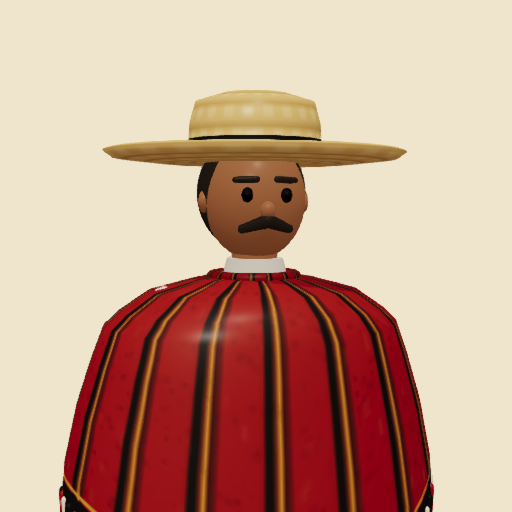
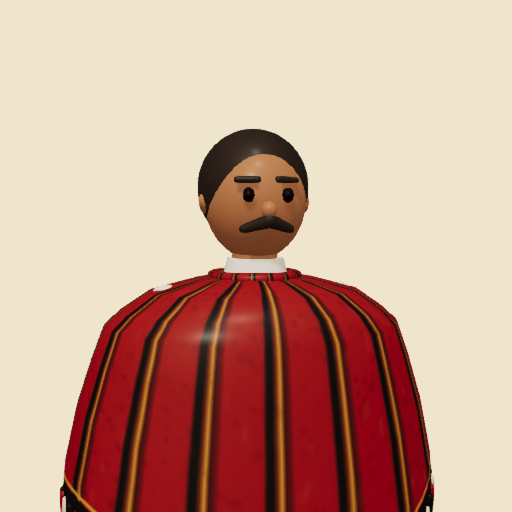
style: quita el sombrero del artesano

diff --git a/src/experience/world/avatars/ArtisanAvatar.ts b/src/experience/world/avatars/ArtisanAvatar.ts
@@ -8,7 +8,7 @@ const HAIR = "#3a2f29";
 
 /**
  * "artesano": a man of about 45 from Pasto in a red, black and ochre striped ruana, white
- * shirt, dark trousers, straw hat and a moustache.
+ * shirt, dark trousers and a moustache.
  */
 export class ArtisanAvatar extends ProceduralAvatar {
   constructor(context: AvatarContext) {
@@ -73,8 +73,8 @@ export class ArtisanAvatar extends ProceduralAvatar {
     const b = this.body;
     const y = b.headHeight;
     const hair = this.atlas.solid(HAIR);
-    // Short hair: a cap slightly behind the head, hidden on top by the hat.
-    this.parts.sphere("head", hair, [0, y + 0.012, -0.03], b.headSize + 0.012, [0.94, 1.02, 0.92], 20);
+    // Short hair combed back: a cap over the top and the back of the head.
+    this.parts.sphere("head", hair, [0, y + 0.024, -0.018], b.headSize + 0.012, [0.95, 1.0, 0.95], 22);
     for (const side of [-1, 1]) {
       this.parts.capsule("head", hair, [side * 0.022, y + 0.038, 0.104], [side * 0.062, y + 0.038, 0.094], 0.008, 0.006);
       // Thick moustache that falls a little at the ends.
@@ -82,46 +82,6 @@ export class ArtisanAvatar extends ProceduralAvatar {
     }
   }
 
-  protected buildHeadwear(): void {
-    const straw = this.atlas.paint(128, 64, (ctx, w, h) => {
-      ctx.fillStyle = P.STRAW;
-      ctx.fillRect(0, 0, w, h);
-      // Woven rings and stitches of the toquilla straw.
-      for (let y = 0; y < h; y += 4) {
-        ctx.fillStyle = "rgba(120,80,30,0.28)";
-        ctx.fillRect(0, y, w, 1);
-        for (let x = (y / 4) % 2 ? 0 : 3; x < w; x += 6) {
-          ctx.fillStyle = "rgba(255,240,200,0.22)";
-          ctx.fillRect(x, y + 1, 3, 2);
-        }
-      }
-    });
-    const y = this.body.headHeight;
-    this.parts.lathe(
-      "head",
-      straw,
-      [0, y, 0],
-      [
-        [0, 0.078],
-        [0.2, 0.074],
-        [0.295, 0.084],
-        [0.315, 0.098],
-        [0.3, 0.103],
-        [0.2, 0.091],
-        [0.135, 0.09],
-        [0.138, 0.15],
-        [0.125, 0.2],
-        [0.07, 0.218],
-        [0, 0.212],
-      ],
-      { tessellation: 40, doubleSided: true },
-    );
-    const band = this.atlas.paint(64, 16, (ctx, w, h) => {
-      ctx.fillStyle = P.BLACK;
-      ctx.fillRect(0, 0, w, h);
-      ctx.fillStyle = P.RED;
-      ctx.fillRect(0, h / 2 - 1, w, 2);
-    });
-    this.parts.cylinder("head", band, [0, y + 0.107, 0], 0.032, 0.282, 0.279, 32);
-  }
+  /** No hat: his hair shows. */
+  protected buildHeadwear(): void {}
 }
